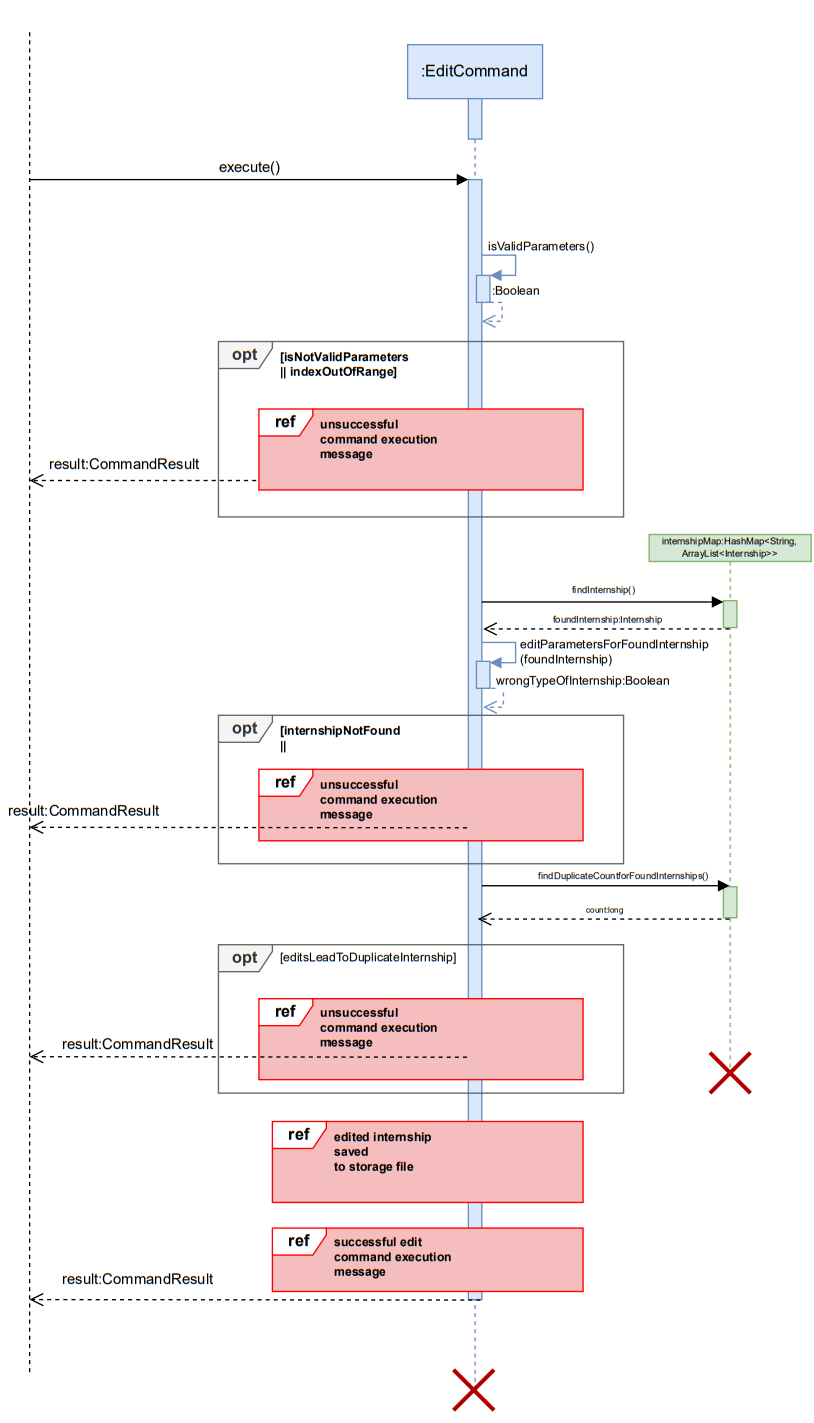
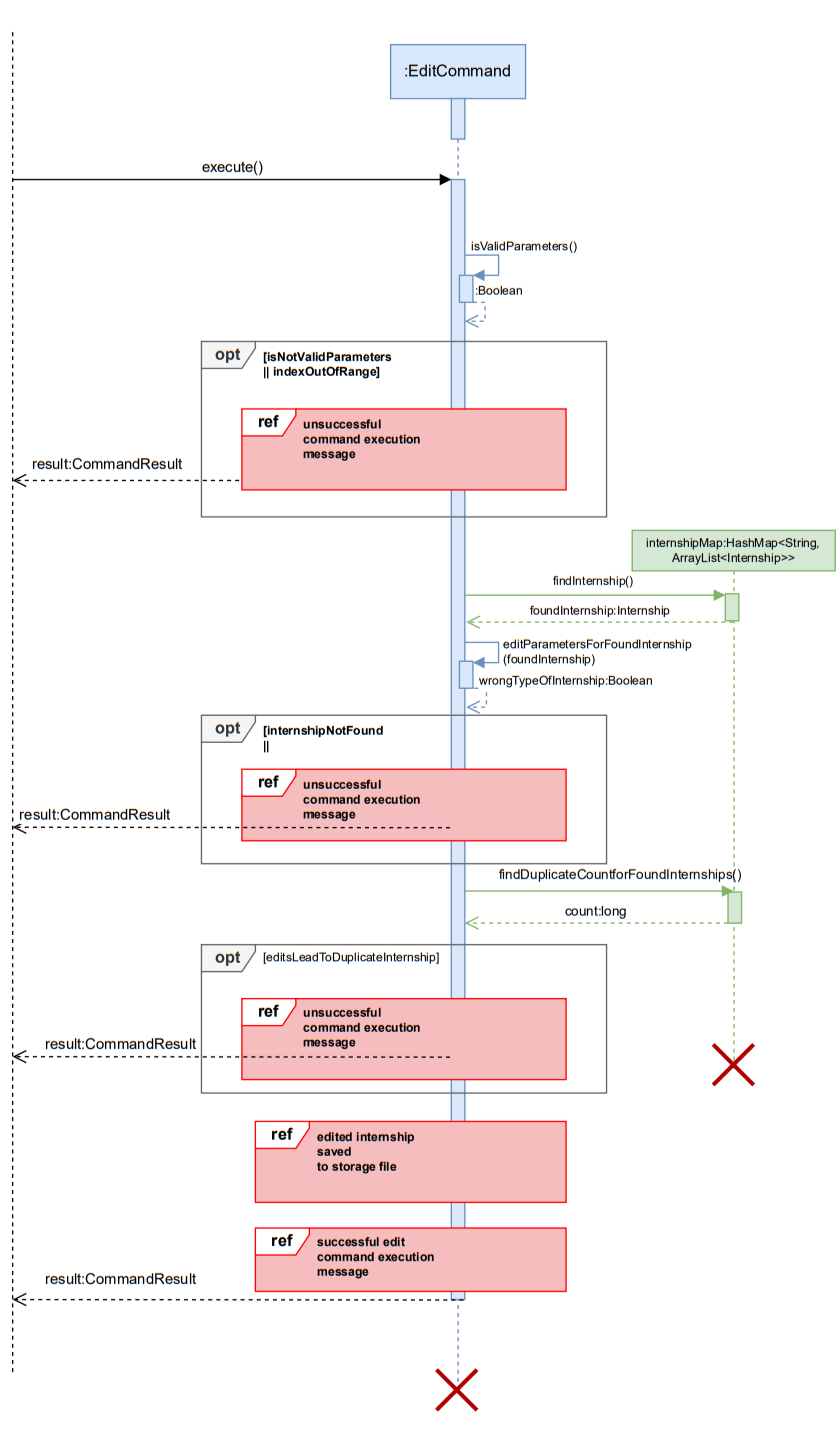
Update edit_overview image and clarify alt vs. opt frame

diff --git a/docs/DeveloperGuide.md b/docs/DeveloperGuide.md
@@ -438,7 +438,7 @@ and a successful execution result is returned to the user.
   under `DeleteCommand`.
 
 <div align="center">
-<img src="images/EditImages/edit_overview.png" alt="EditCommandSequenceDiagramOverview" width="100%">
+<img src="images/EditImages/edit_overview.PNG" alt="EditCommandSequenceDiagramOverview" width="70%">
 </div>
 
 Below are the expanded reference frames for successful and unsuccessful CommandResults returned by execute() method.
@@ -447,6 +447,8 @@ Below are the expanded reference frames for successful and unsuccessful CommandR
 <img src="images/EditImages/edit_ref_1.png" alt="EditCommandSequenceDiagramOverview" width="60%">
 <img src="images/EditImages/edit_ref_2.png" alt="EditCommandSequenceDiagramOverview" width="60%">
 </div>
+
+*Here the opt frame is utilized and **not** the alt frame since this better reflects the way the code flow works.*
 
 Print calls, assert statements, logging, and other non-essential calls are omitted in the diagram for clarity.
 For full clarity, note below is a comprehensive sequence diagram, combining all reference frames and expanding logic
